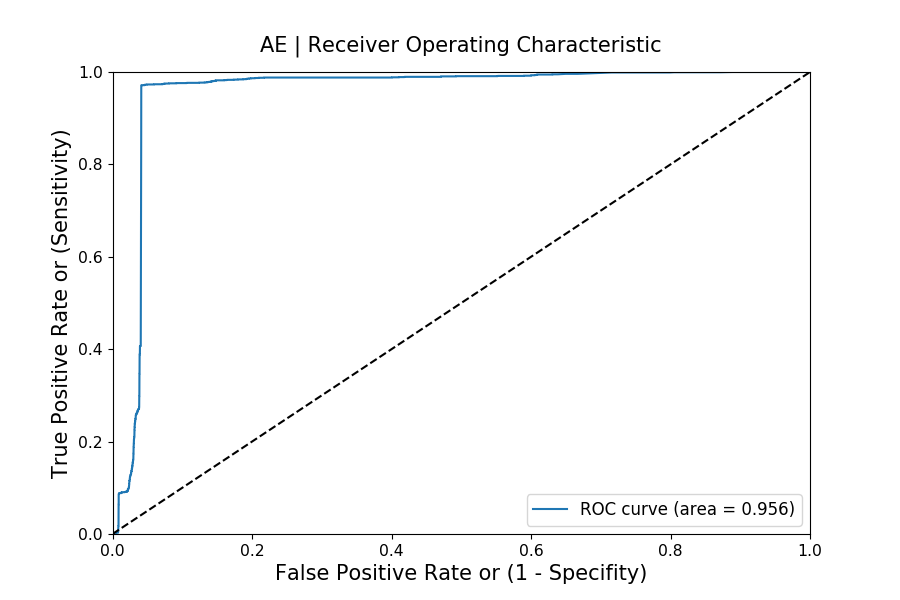
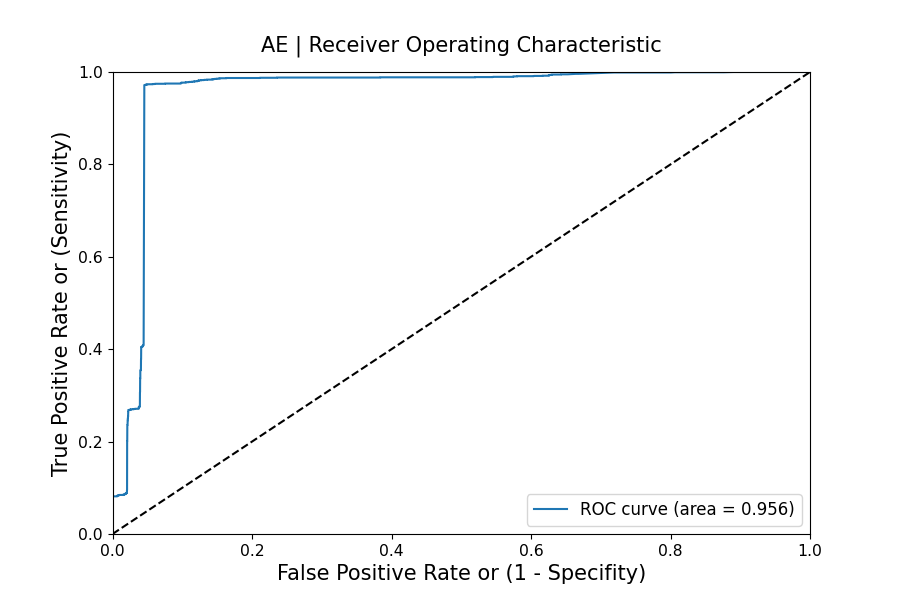
remove plt

diff --git a/models/seq2seq.py b/models/seq2seq.py
@@ -16,7 +16,6 @@ from tensorflow.keras.models import Model
 from tensorflow.keras.optimizers import Adam
 
 from utils import train_utils
-import matplotlib.pyplot as plt
 
 import numpy as np
 import random
@@ -169,12 +168,12 @@ class Seq2SeqModel():
         history = self.model.fit(
             [encoder_input_data, decoder_input_data], decoder_target_data, **kwargs)
         # Plot training & validation loss values
-        plt.plot(history.history['loss'])
-        plt.plot(history.history['val_loss'])
-        plt.title('Model loss')
-        plt.ylabel('Loss')
-        plt.xlabel('Epoch')
-        plt.legend(['Train loss', 'Val Loss'], loc='upper left')
+        # plt.plot(history.history['loss'])
+        # plt.plot(history.history['val_loss'])
+        # plt.title('Model loss')
+        # plt.ylabel('Loss')
+        # plt.xlabel('Epoch')
+        # plt.legend(['Train loss', 'Val Loss'], loc='upper left')
         # plt.show()
 
     def decode_sequence(self, input_seq):

diff --git a/models/ae.py b/models/ae.py
@@ -20,7 +20,6 @@ import logging
 
 import os
 from utils import train_utils
-import matplotlib.pyplot as plt
 
 import numpy as np
 import random
@@ -134,16 +133,7 @@ class AutoencoderModel():
         kwargs['verbose'] = 1
         kwargs['callbacks'] = [train_utils.TimeHistory()]
 
-        history = self.model.fit(X_train, X_trains, **kwargs)
-        # Plot training & validation loss values
-        # plt.plot(history.history['loss'])
-        # plt.plot(history.history['val_loss'])
-        # plt.title('Model loss')
-        # plt.ylabel('Loss')
-        # plt.xlabel('Epoch')
-        # plt.legend(['Train', 'Test'], loc='upper left')
-        # # plt.show()
-        # plt.close()
+        history = self.model.fit(X_train, X_train, **kwargs)
 
     def compute_anomaly_score(self, df):
         preds = self.model.predict(df)

diff --git a/utils/eval_utils.py b/utils/eval_utils.py
@@ -7,17 +7,18 @@
 # =============================================================================
 #
 
+from multiprocessing import Queue, Pool
+import json
+import os
+import logging
 import numpy as np
 from sklearn.metrics import precision_recall_fscore_support
 from sklearn.metrics import confusion_matrix, accuracy_score, f1_score, precision_score, recall_score, fbeta_score, roc_curve, auc, roc_auc_score
 import pandas as pd
-import matplotlib.pyplot as plt
-import logging
-import os
-import json
+import matplotlib
+matplotlib.use('Agg')
 
-from multiprocessing import Queue, Pool
-
+plt = matplotlib.pyplot
 fig_size = (9, 6)
 fig_font = 15
 plot_params = {'legend.fontsize': 'large',

diff --git a/train.py b/train.py
@@ -19,7 +19,7 @@ import numpy as np
 
 
 import logging
-logging.basicConfig(level=logging.DEBUG)
+logging.basicConfig(level=logging.INFO)
 
 
 parser = argparse.ArgumentParser(description='Process train parameters')

diff --git a/models/bigan.py b/models/bigan.py
@@ -19,7 +19,6 @@ import logging
 from tensorflow.keras.layers import LeakyReLU, ReLU
 import os
 
-import matplotlib.pyplot as plt
 
 import numpy as np
 import random
